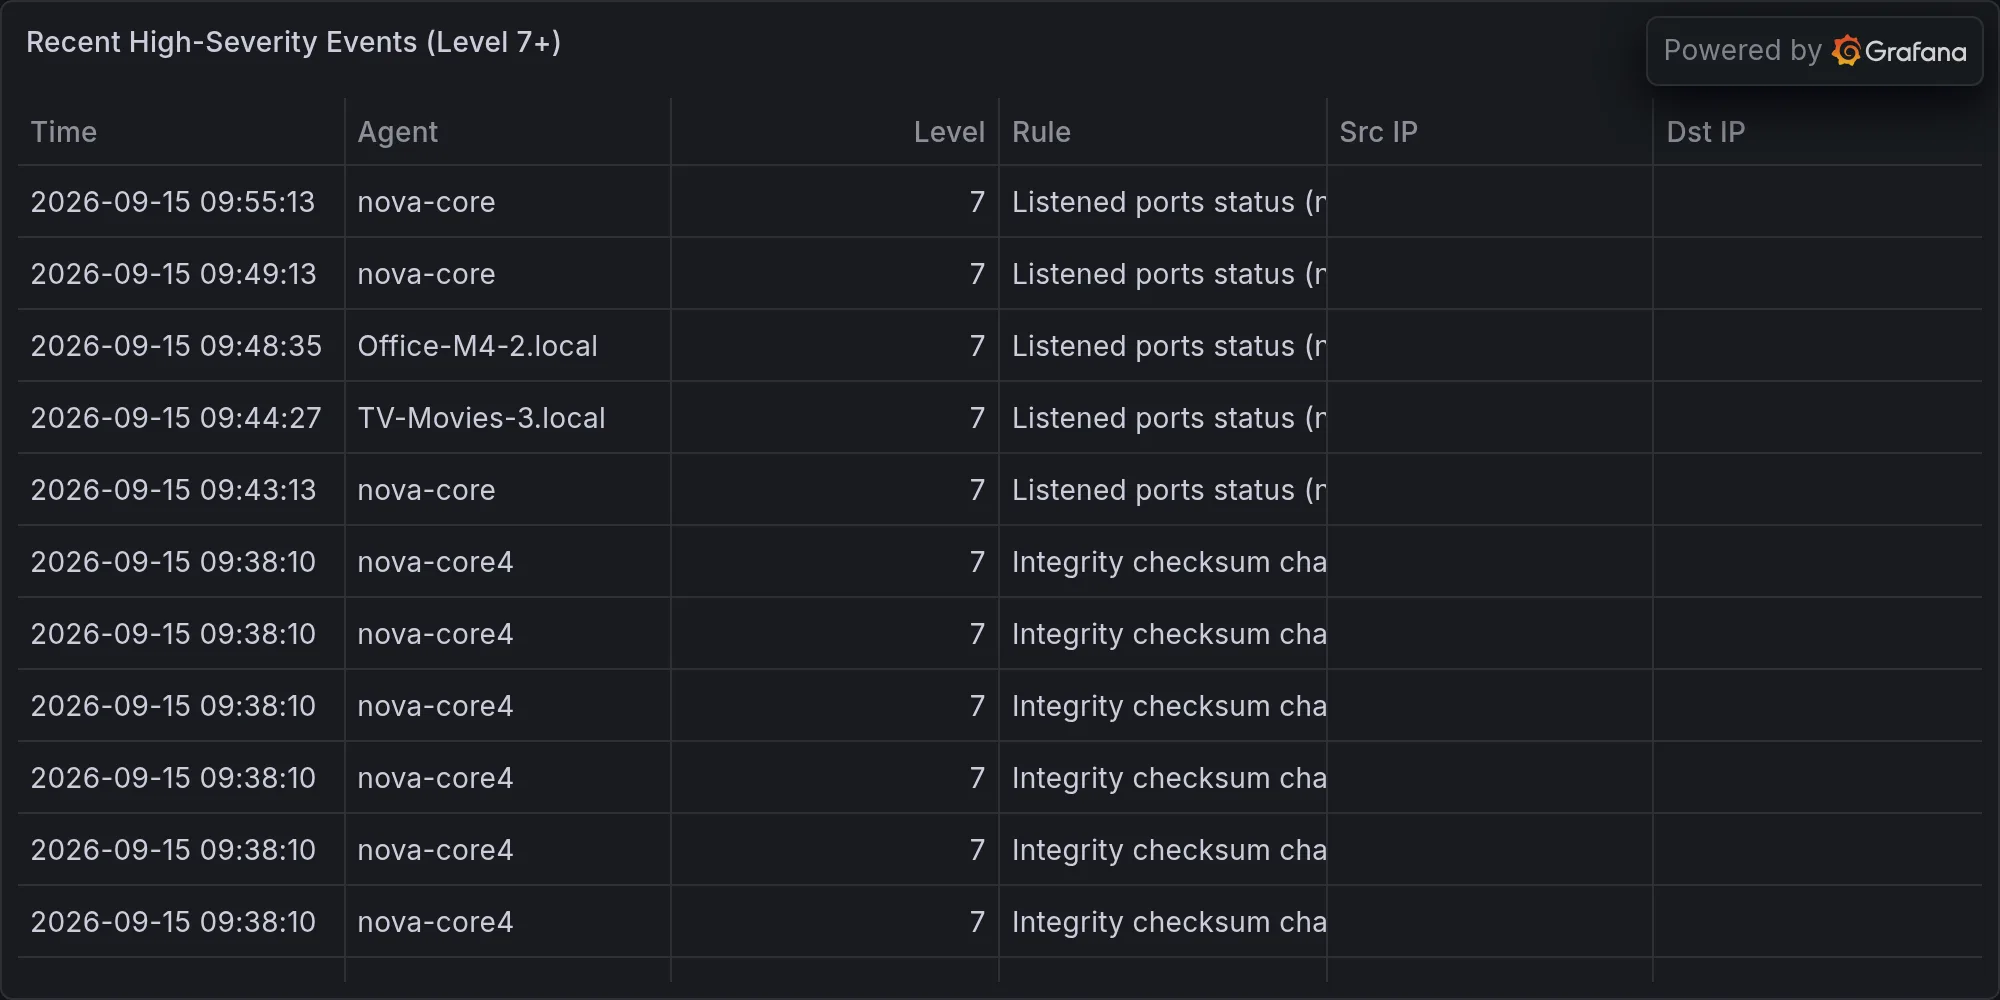
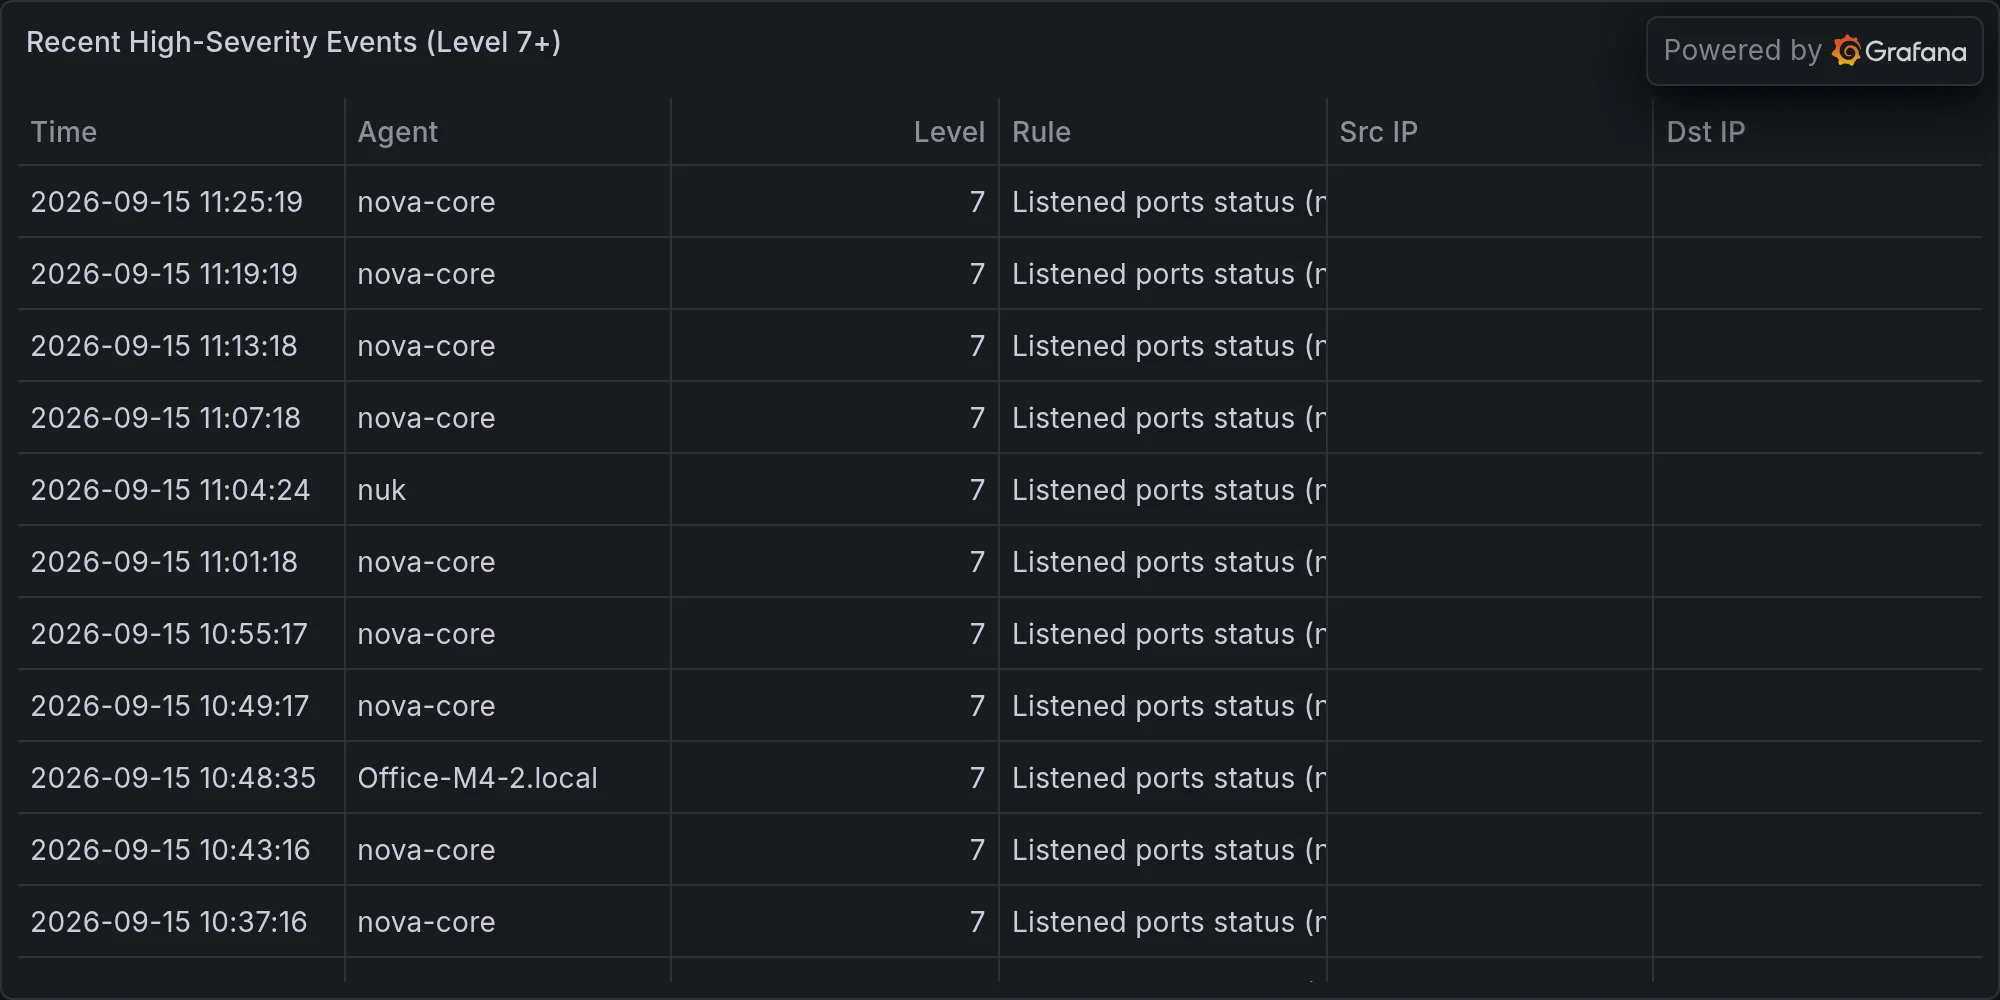
security: 2026-09-15 — **CVE-2026-76461: Cisco Secure Email Gateway Criti

diff --git a/content/operations/2026-09-15-cve-2026-76461-cisco-secure-email-gateway-critical-rce-patch.md b/content/operations/2026-09-15-cve-2026-76461-cisco-secure-email-gateway-critical-rce-patch.md
@@ -1,0 +1,66 @@
+---
+title: "🛡 **CVE-2026-76461: Cisco Secure Email Gateway Critical RCE — Patch Now**"
+date: 2026-09-15T11:29:37-07:00
+draft: false
+categories: ["operations"]
+tags: ["breaking-alert", "soc-prime-cve-2026-76461", "security"]
+description: "BREAKING: SOC Prime: CVE-2026-76461"
+cover:
+  image: "/images/operations/2026-09-15-cve-2026-76461-cisco-secure-email-gateway-critical-rce-patch.webp"
+  alt: "**CVE-2026-76461: Cisco Secure Email Gateway Critical RCE — Patch Now**"
+  relative: false
+---
+
+*Published Tuesday, September 15, 2026 at 11:29 AM PT*
+
+![**CVE-2026-76461: Cisco Secure Email Gateway Critical RCE — Patch Now**](/images/operations/2026-09-15-cve-2026-76461-cisco-secure-email-gateway-critical-rce-patch.webp)
+
+**BLUF:** Cisco has released patches for CVE-2026-76461, a critical zero-day in Secure Email Gateway appliances (CVSS 9.8) allowing unauthenticated remote code execution as root. Exploitation is already active in the wild. All organizations running Cisco SEG must apply patches immediately; no workarounds available pending full analysis.
+
+---
+
+**DETAILS**
+
+- **Vulnerability:** CVE-2026-76461 affects Cisco Secure Email Gateway appliances; enables arbitrary command execution with root privileges without authentication.
+- **CVSS Score:** 9.8 (Critical) — attack vector network, low complexity, no privileges required.
+- **Exploitation Status:** Confirmed active exploitation in the wild; zero-day status now patched by vendor.
+- **Attack Surface:** Unauthenticated remote attacker; full details on attack vector truncated in available reporting (attack method incompletely documented).
+- **Patch Status:** Cisco has released patches; specific version numbers and patch release timeline not confirmed in available material.
+
+---
+
+**IMPACT**
+
+Cisco Secure Email Gateway appliances are high-value targets for threat actors due to their position in email infrastructure. Root-level RCE enables:
+- Full mailbox compromise and exfiltration
+- Email routing manipulation / interception
+- Lateral movement into internal networks via the SEG's trusted position
+- Persistent backdoors on critical infrastructure
+
+**Scope:** Any organization deploying Cisco SEG (on-premises or cloud-based) is affected unless running a patched version. Attack requires no credentials or user interaction.
+
+---
+
+**RECOMMENDED ACTIONS**
+
+1. **Immediate:** Identify all Cisco SEG appliances in your environment (on-prem and any managed/cloud instances).
+2. **Urgent (within 24–48 hours):** Apply Cisco security patches to all affected appliances. Check Cisco's advisory for version-specific guidance.
+3. **Monitoring:** Review email gateway logs and traffic for indicators of exploitation (anomalous commands, unusual source IPs, unexpected process execution on SEG).
+4. **Assumption of Breach (if unpatched):** If SEG has been exposed to untrusted networks for >48 hours, assume compromise; conduct forensics on email traffic and adjacent systems.
+
+---
+
+**SOURCES**
+
+- SOC Prime threat intelligence (truncated details; full advisory recommended from Cisco Security Advisory)
+- Exploitation status: confirmed active in the wild per SOC Prime reporting
+
+---
+
+**CAVEAT:** Attack vector details incomplete in available reporting. Refer to Cisco's official security advisory for full mitigation guidance, affected versions, and patch availability timeline.
+
+---
+
+**Recent high-severity events at publish time:**
+
+![Recent high-severity events](/images/operations/2026-09-15-breaking-alert-posture.webp)
